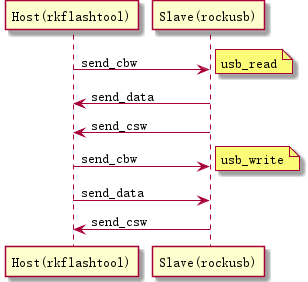
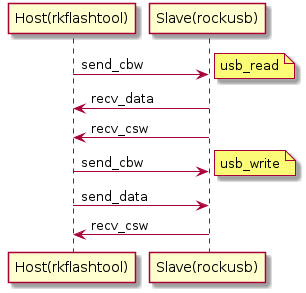
USB : rename the data flow function name

Changed region(s): [[0.0, 0.0, 1.0, 1.0]]

diff --git a/debug/usb/README.md b/debug/usb/README.md
@@ -157,6 +157,8 @@ Slave端(开发板),进入下载模式后枚举成MassStroage设备,循环等待
 写流程(usb_write)
 - Host发送cbw,其中cdb里包含写命令,并发送要写的数据,Slave返回csw
 
+下图中的所有术语是按主机的角度说明的
+
 ![work flow](./sequenceDiagram.png)
 
 Libusb编程核心步骤
